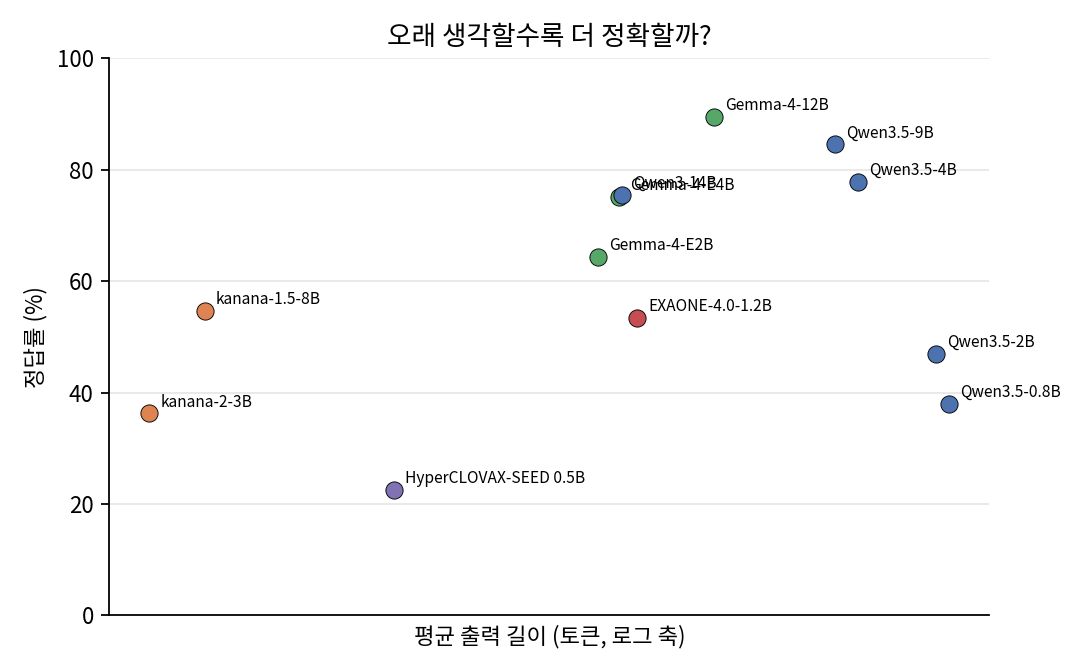
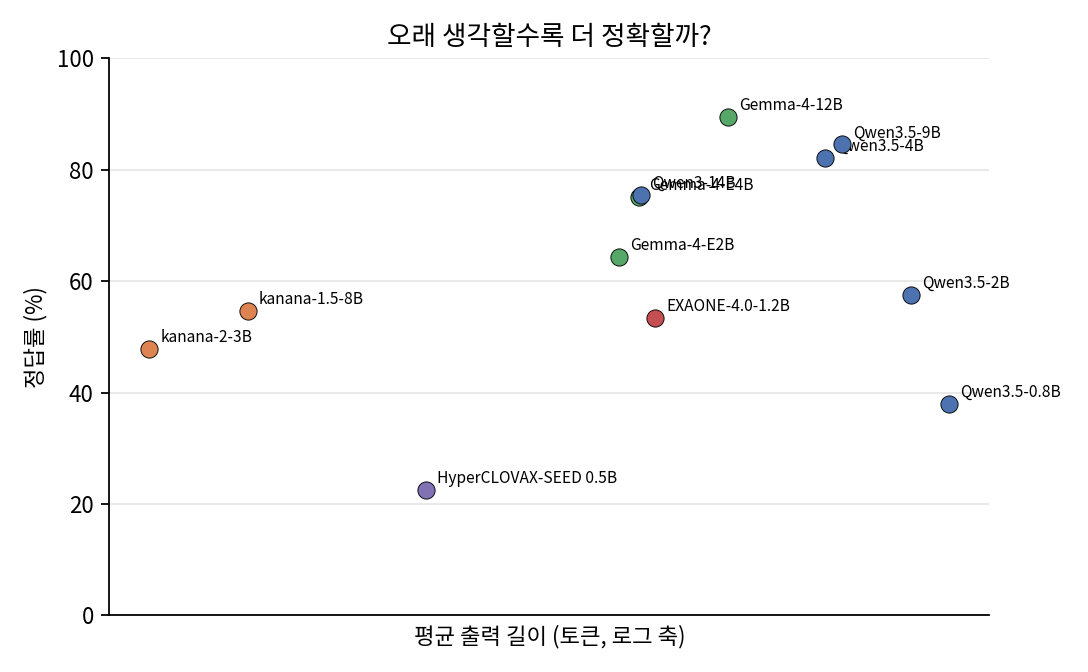
Update results (32 runs)

diff --git a/README.md b/README.md
@@ -10,9 +10,9 @@
 - **수학**은 작은 모델도 잘 푼다. 4B 크기의 Gemma-4-E4B가 80점을 넘었다.
 - 시험지 맨 끝의 4점 단답형 고난도 문항(공통 21·22번, 선택 29·30번)은 모델 평균 정답률이 25%, 가장 잘 푼 모델도 67%에 그쳤다.
 - **국어가 수학보다 어렵다.** 2B 이상 모델 기준으로 국어 정답률이 수학보다 평균 13%p 낮다. 2,000–4,000자 길이의 지문을 읽고 선택지 사이의 미묘한 차이를 가려내는 일이 작은 모델에게는 계산보다 어렵다.
-- **국산 모델**: HyperCLOVAX-SEED 0.5B(국어 18점, 수학 19점, 영어 30점), EXAONE-4.0-1.2B(국어 31점, 수학 75점, 영어 61점), kanana-2-3B(국어 34점, 수학 39점), kanana-1.5-8B(국어 45점, 수학 42점, 영어 83점).
+- **국산 모델**: HyperCLOVAX-SEED 0.5B(국어 18점, 수학 19점, 영어 30점), EXAONE-4.0-1.2B(국어 31점, 수학 75점, 영어 61점), kanana-2-3B(국어 34점, 수학 39점, 영어 73점), kanana-1.5-8B(국어 45점, 수학 42점, 영어 83점).
 
-> 마지막 업데이트: 2026-11-19 17:24 KST. 평가가 진행되는 동안 모델 하나가 끝날 때마다 이 페이지가 자동으로 갱신된다.
+> 마지막 업데이트: 2026-11-19 17:26 KST. 평가가 진행되는 동안 모델 하나가 끝날 때마다 이 페이지가 자동으로 갱신된다.
 
 ## 왜 소형 모델인가
 
@@ -85,10 +85,10 @@
 | Qwen3.5-0.8B | 알리바바 | 0.8 | 보급형 스마트폰 | 24.4 <sub>(18–32)</sub> | 22.9 <sub>(20–28)</sub> | 36.5 <sub>(35–39)</sub> | 36.3 <sub>(33–39)</sub> | 33.5 <sub>(31–36)</sub> | 56.9 <sub>(51–63)</sub> |
 | EXAONE-4.0-1.2B | LG AI연구원 | 1.28 | 보급형 스마트폰 | 31.2 <sub>(28–35)</sub> | 31.5 <sub>(27–35)</sub> | 77.6 <sub>(70–82)</sub> | 72.9 <sub>(63–82)</sub> | 73.5 <sub>(71–78)</sub> | 61.1 <sub>(61–62)</sub> |
 | Gemma-4-E2B | 구글 | 2.0 | 중급 스마트폰 | 67.9 <sub>(64–71)</sub> | 61.2 <sub>(59–63)</sub> | 75.0 <sub>(72–80)</sub> | 73.0 <sub>(69–77)</sub> | 76.3 <sub>(76–77)</sub> | — |
-| Qwen3.5-2B | 알리바바 | 2.0 | 보급형 스마트폰 | 33.6 <sub>(31–36)</sub> | 37.7 <sub>(34–42)</sub> | 64.7 <sub>(63–66)</sub> | 59.9 <sub>(56–65)</sub> | 62.1 <sub>(61–63)</sub> | — |
-| kanana-2-3B | 카카오 | 3.0 | 중급 스마트폰 | 32.5 <sub>(30–34)</sub> | 36.0 <sub>(29–40)</sub> | 42.6 <sub>(29–54)</sub> | 38.9 <sub>(28–51)</sub> | 36.3 <sub>(25–49)</sub> | — |
+| Qwen3.5-2B | 알리바바 | 2.0 | 보급형 스마트폰 | 33.6 <sub>(31–36)</sub> | 37.7 <sub>(34–42)</sub> | 64.7 <sub>(63–66)</sub> | 59.9 <sub>(56–65)</sub> | 62.1 <sub>(61–63)</sub> | 80.4 <sub>(78–82)</sub> |
+| kanana-2-3B | 카카오 | 3.0 | 중급 스마트폰 | 32.5 <sub>(30–34)</sub> | 36.0 <sub>(29–40)</sub> | 42.6 <sub>(29–54)</sub> | 38.9 <sub>(28–51)</sub> | 36.3 <sub>(25–49)</sub> | 73.3 <sub>(68–80)</sub> |
 | Gemma-4-E4B | 구글 | 4.0 | 중급 스마트폰 | 77.2 <sub>(69–83)</sub> | 73.3 <sub>(67–77)</sub> | 82.7 <sub>(80–84)</sub> | 79.3 <sub>(77–81)</sub> | 88.0 <sub>(84–92)</sub> | — |
-| Qwen3.5-4B | 알리바바 | 4.0 | 중급 스마트폰 | 75.0 <sub>(71–81)</sub> | 70.7 <sub>(68–72)</sub> | 88.8 <sub>(86–92)</sub> | 85.9 <sub>(82–88)</sub> | 90.5 <sub>(82–96)</sub> | — |
+| Qwen3.5-4B | 알리바바 | 4.0 | 중급 스마트폰 | 75.0 <sub>(71–81)</sub> | 70.7 <sub>(68–72)</sub> | 88.8 <sub>(86–92)</sub> | 85.9 <sub>(82–88)</sub> | 90.5 <sub>(82–96)</sub> | 91.8 <sub>(86–95)</sub> |
 | kanana-1.5-8B | 카카오 | 8.0 | 플래그십 스마트폰 | 44.7 <sub>(40–48)</sub> | 45.3 <sub>(44–47)</sub> | 43.0 <sub>(37–49)</sub> | 42.0 <sub>(40–46)</sub> | 41.0 <sub>(34–46)</sub> | 82.7 <sub>(77–89)</sub> |
 | Qwen3.5-9B | 알리바바 | 9.0 | 플래그십 스마트폰 | 87.7 <sub>(87–88)</sub> | 79.0 <sub>(76–81)</sub> | 90.4 <sub>(89–93)</sub> | 86.7 <sub>(82–92)</sub> | 92.8 <sub>(90–96)</sub> | — |
 | Gemma-4-12B | 구글 | 12.0 | 노트북·태블릿 | 91.7 <sub>(88–95)</sub> | 86.2 <sub>(78–93)</sub> | 88.5 <sub>(86–90)</sub> | 81.6 <sub>(82–82)</sub> | 88.5 <sub>(86–90)</sub> | 94.3 <sub>(91–96)</sub> |
@@ -135,10 +135,10 @@
 | Qwen3.5-0.8B | 0.23 / 0.14 / 0.46 / 0.46 / 12622 | 0.37 / 0.28 / 0.59 / 0.54 / 13733 | 0.58 / 0.54 / 0.18 / 0.18 / 9809 |
 | EXAONE-4.0-1.2B | 0.30 / 0.29 / 0.04 / 0.01 / 1520 | 0.72 / 0.70 / 0.18 / 0.14 / 6924 | 0.63 / 0.61 / 0.06 / 0.00 / 1123 |
 | Gemma-4-E2B | 0.59 / 0.58 / 0.00 / 0.00 / 1897 | 0.71 / 0.71 / 0.00 / 0.00 / 3471 | — |
-| Qwen3.5-2B | 0.34 / 0.29 / 0.23 / 0.25 / 12221 | 0.63 / 0.59 / 0.37 / 0.37 / 10424 | — |
-| kanana-2-3B | 0.34 / 0.33 / 0.00 / 0.00 / 176 | 0.39 / 0.39 / 0.01 / 0.00 / 596 | — |
+| Qwen3.5-2B | 0.34 / 0.29 / 0.23 / 0.25 / 12221 | 0.63 / 0.59 / 0.37 / 0.37 / 10424 | 0.81 / 0.81 / 0.04 / 0.05 / 7274 |
+| kanana-2-3B | 0.34 / 0.33 / 0.00 / 0.00 / 176 | 0.39 / 0.39 / 0.01 / 0.00 / 596 | 0.74 / 0.74 / 0.00 / 0.00 / 135 |
 | Gemma-4-E4B | 0.70 / 0.69 / 0.02 / 0.00 / 1955 | 0.81 / 0.81 / 0.01 / 0.00 / 3955 | — |
-| Qwen3.5-4B | 0.70 / 0.70 / 0.04 / 0.07 / 8813 | 0.88 / 0.87 / 0.12 / 0.12 / 7250 | — |
+| Qwen3.5-4B | 0.70 / 0.70 / 0.04 / 0.07 / 8813 | 0.88 / 0.87 / 0.12 / 0.12 / 7250 | 0.92 / 0.92 / 0.01 / 0.00 / 3809 |
 | kanana-1.5-8B | 0.42 / 0.42 / 0.00 / 0.00 / 343 | 0.43 / 0.43 / 0.01 / 0.00 / 857 | 0.83 / 0.83 / 0.00 / 0.00 / 217 |
 | Qwen3.5-9B | 0.80 / 0.79 / 0.07 / 0.07 / 7616 | 0.90 / 0.89 / 0.11 / 0.11 / 7024 | — |
 | Gemma-4-12B | 0.86 / 0.86 / 0.05 / 0.05 / 5240 | 0.89 / 0.88 / 0.12 / 0.12 / 6271 | 0.94 / 0.94 / 0.00 / 0.00 / 1211 |
